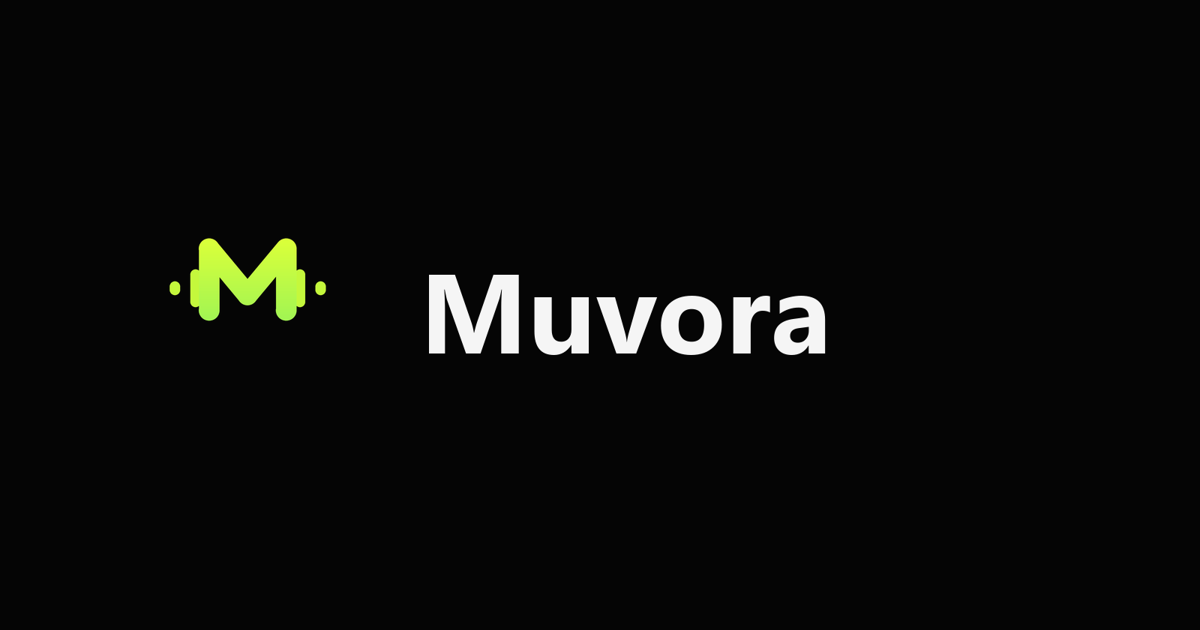
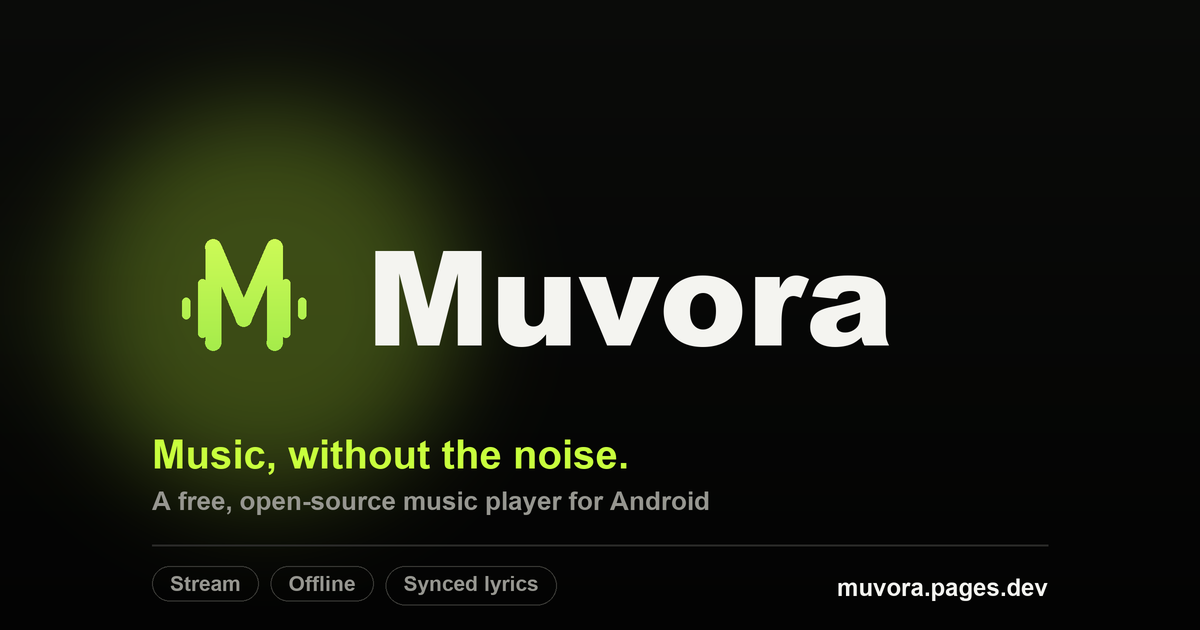
Redesign social link-preview card (og.png)
Glow behind the mark, mark+wordmark lockup, tagline, subtitle, feature
pills and domain, replacing the bare logo-on-black preview.

Changed region(s): [[0.0308, 0.1206, 0.74, 0.8143], [0.1233, 0.9048, 0.4625, 0.9651], [0.7092, 0.9048, 0.8633, 0.9651]]

diff --git a/scripts/make_og.py b/scripts/make_og.py
@@ -1,0 +1,161 @@
+"""
+Render website/public/og.png (and a square icon) — the social link-preview card.
+
+A premium dark composition: soft lime glow behind the Muvora mark, mark + wordmark
+lockup, tagline, a thin divider, feature pills and a download hint. 1200x630.
+"""
+from PIL import Image, ImageDraw, ImageFont, ImageFilter
+import os
+
+HERE = os.path.dirname(os.path.dirname(os.path.abspath(__file__)))
+OUT = os.path.join(HERE, "website", "public", "og.png")
+
+W, H = 1200, 630
+SS = 2  # supersample
+
+BG_TOP = (10, 11, 9)
+BG_BOT = (3, 3, 3)
+LIME = (200, 255, 61)
+LIME_HI = (217, 255, 90)
+LIME_LO = (150, 230, 70)
+WHITE = (244, 244, 240)
+GREY = (150, 150, 144)
+
+FB = r"C:\Windows\Fonts\arialbd.ttf"
+FBL = r"C:\Windows\Fonts\ariblk.ttf"
+
+
+def font(path, size):
+    return ImageFont.truetype(path, size)
+
+
+def vgrad(w, h, top, bot):
+    base = Image.new("RGB", (w, h), top)
+    draw = ImageDraw.Draw(base)
+    for y in range(h):
+        t = y / max(1, h - 1)
+        c = tuple(round(top[i] + (bot[i] - top[i]) * t) for i in range(3))
+        draw.line([(0, y), (w, y)], fill=c)
+    return base
+
+
+def lerp(a, b, t):
+    return tuple(round(a[i] + (b[i] - a[i]) * t) for i in range(3))
+
+
+def draw_mark(size, stroke_w=60):
+    """Muvora mark on transparent canvas. Source viewBox ~ x265..760, y290..545."""
+    cv = Image.new("RGBA", (size, size), (0, 0, 0, 0))
+    d = ImageDraw.Draw(cv)
+    # source space is 1024; map into `size` with padding
+    pad = size * 0.14
+    span = size - pad * 2
+
+    def X(x):
+        return pad + (x - 265) / (760 - 265) * span
+
+    def Y(y):
+        # centre the ~290..545 band vertically
+        return pad + (y - 290) / (545 - 290) * span
+
+    sx = span / (760 - 265)
+
+    # gradient fill via mask
+    mask = Image.new("L", (size, size), 0)
+    md = ImageDraw.Draw(mask)
+
+    def bar(cx, top, bot, w):
+        md.rounded_rectangle([X(cx - w / 2), Y(top), X(cx + w / 2), Y(bot)],
+                             radius=(w / 2) * sx, fill=255)
+
+    bar(300, 415, 455, 30)
+    bar(360, 380, 490, 30)
+    bar(665, 380, 490, 30)
+    bar(725, 415, 455, 30)
+
+    lw = int(stroke_w * sx)
+    pts = [((400, 320), (400, 500)), ((400, 320), (512, 455)),
+           ((512, 455), (625, 320)), ((625, 320), (625, 500))]
+    for p0, p1 in pts:
+        md.line([X(p0[0]), Y(p0[1]), X(p1[0]), Y(p1[1])], fill=255, width=lw, joint="curve")
+        r = lw / 2
+        for p in (p0, p1):
+            md.ellipse([X(p[0]) - r, Y(p[1]) - r, X(p[0]) + r, Y(p[1]) + r], fill=255)
+
+    grad = Image.new("RGBA", (size, size), (0, 0, 0, 0))
+    gp = grad.load()
+    for y in range(size):
+        t = y / max(1, size - 1)
+        c = lerp(LIME_HI, LIME_LO, t) + (255,)
+        for x in range(size):
+            gp[x, y] = c
+    cv.paste(grad, (0, 0), mask)
+    return cv
+
+
+def rounded_text_pill(draw, xy, text, fnt, pad=(20, 11)):
+    x, y = xy
+    tb = draw.textbbox((0, 0), text, font=fnt)
+    tw, th = tb[2] - tb[0], tb[3] - tb[1]
+    w = tw + pad[0] * 2
+    h = th + pad[1] * 2
+    draw.rounded_rectangle([x, y, x + w, y + h], radius=h / 2, outline=(60, 60, 56), width=2)
+    draw.text((x + pad[0] - tb[0], y + pad[1] - tb[1]), text, font=fnt, fill=GREY)
+    return w
+
+
+def main():
+    img = vgrad(W * SS, H * SS, BG_TOP, BG_BOT).convert("RGBA")
+
+    # radial lime glow upper-left behind the mark
+    glow = Image.new("RGBA", img.size, (0, 0, 0, 0))
+    gd = ImageDraw.Draw(glow)
+    gx, gy, gr = int(265 * SS), int(300 * SS), int(230 * SS)
+    gd.ellipse([gx - gr, gy - gr, gx + gr, gy + gr], fill=(200, 255, 61, 70))
+    glow = glow.filter(ImageFilter.GaussianBlur(120 * SS // 2))
+    img.alpha_composite(glow)
+
+    # faint corner wordmark watermark (big, very dark) for depth
+    d = ImageDraw.Draw(img)
+
+    # --- mark + wordmark lockup ---
+    mark_sz = int(188 * SS)
+    mark = draw_mark(mark_sz)
+    mark_x, mark_y = int(150 * SS), int(205 * SS)
+    img.alpha_composite(mark, (mark_x, mark_y))
+
+    word = font(FBL, int(132 * SS))
+    wx = mark_x + mark_sz + int(28 * SS)
+    wtb = d.textbbox((0, 0), "Muvora", font=word)
+    wy = mark_y + (mark_sz - (wtb[3] - wtb[1])) // 2 - wtb[1]
+    d.text((wx, wy), "Muvora", font=word, fill=WHITE)
+
+    # --- tagline ---
+    tag = font(FB, int(40 * SS))
+    d.text((int(152 * SS), int(432 * SS)), "Music, without the noise.", font=tag, fill=LIME)
+
+    sub = font(FB, int(26 * SS))
+    d.text((int(152 * SS), int(486 * SS)),
+           "A free, open-source music player for Android", font=sub, fill=GREY)
+
+    # --- divider ---
+    d.line([(152 * SS, 545 * SS), (1048 * SS, 545 * SS)], fill=(42, 42, 40), width=2 * SS)
+
+    # --- feature pills (left) + download hint (right) ---
+    pill = font(FB, int(21 * SS))
+    x = int(152 * SS)
+    for label in ("Stream", "Offline", "Synced lyrics"):
+        w = rounded_text_pill(d, (x, int(566 * SS)), label, pill, pad=(int(18 * SS), int(10 * SS)))
+        x += w + int(12 * SS)
+
+    hint = font(FB, int(24 * SS))
+    htb = d.textbbox((0, 0), "muvora.pages.dev", font=hint)
+    d.text((1048 * SS - (htb[2] - htb[0]), int(574 * SS)), "muvora.pages.dev", font=hint, fill=WHITE)
+
+    out = img.convert("RGB").resize((W, H), Image.LANCZOS)
+    out.save(OUT)
+    print("wrote", OUT, out.size)
+
+
+if __name__ == "__main__":
+    main()
